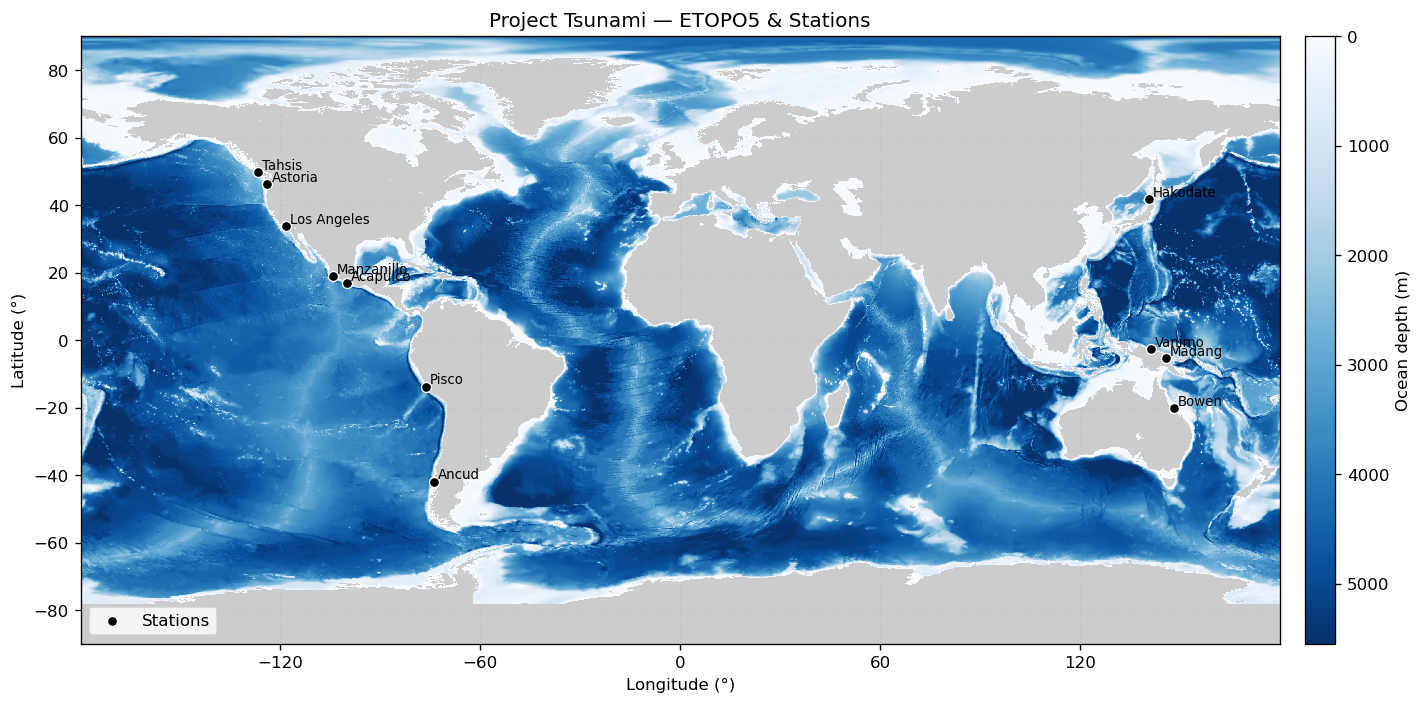
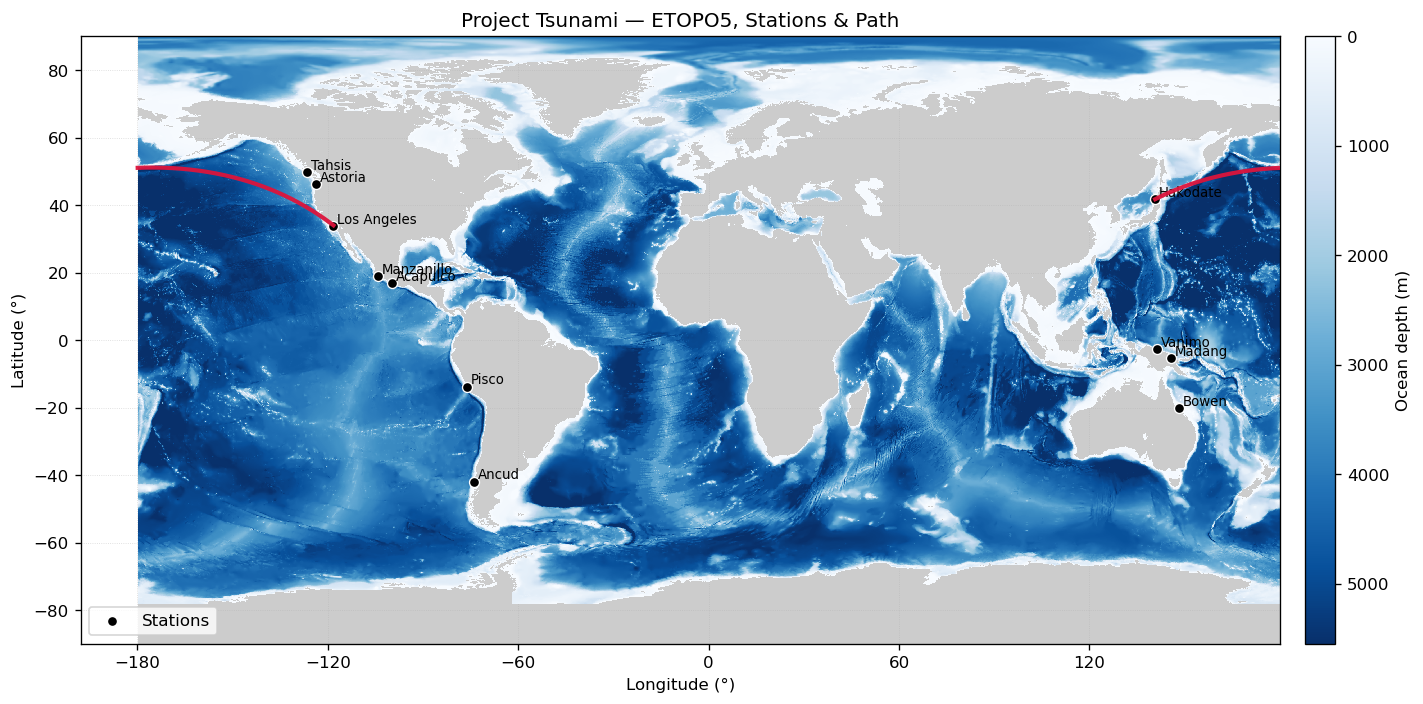
feat(plotting): add great-circle path plotting with multi-route support
- Added new module plotting/paths.py:
  * Implements plot_great_circle() with proper longitude wrapping (-180° to 180°)
  * Handles dateline crossing safely by splitting segments
  * Provides reusable helper for great-circle visualization on (lon, lat) maps

- Extended plotting/world_map.py:
  * New arguments `paths` and `path_style` to overlay one or more trajectories
  * Integrated with ETOPO5 map rendering (handles layering, color, legend)
  * Enables easy visualization of tsunami source→station or inter-station paths

- Example included: Hakodate → Los Angeles great-circle trajectory,
  demonstrating curvature and dateline handling.

This update enables plotting multiple propagation paths directly
on the global bathymetry map for visual analysis.

diff --git a/plotting/world_map.py b/plotting/world_map.py
@@ -4,6 +4,7 @@ from matplotlib.colors import ListedColormap, Normalize
 from matplotlib.ticker import FuncFormatter
 
 from tsunami.io_etopo import load_etopo5
+from plotting.paths import plot_great_circle
 
 def _wrap_to_180(lons):
     """Convertit une grille de longitudes [0, 360) en [-180, 180) et renvoie l'ordre de réindexation."""
@@ -41,10 +42,11 @@ def plot_world_etopo_with_stations(etopo_path="data/etopo5.grd",
                                    stations_csv="data/data_villes.csv",
                                    figsize=(12, 6),
                                    savepath="outputs/world_map.png",
-                                   title="Global bathymetry (oceans) with stations"):
+                                   title="Global bathymetry (oceans) with stations",
+                                   paths=None,
+                                   path_style=None):
     """
     Carte ETOPO5 recadrée en [-180,180), continents grisés, océan coloré.
-    - Colorbar en profondeur positive (m).
     """
     # 1) Charger la grille
     lats, lons, H, _ = load_etopo5(etopo_path)  # H: [nlat, nlon], lats/lons croissants (selon ton loader)
@@ -132,7 +134,17 @@ def plot_world_etopo_with_stations(etopo_path="data/etopo5.grd",
     except FileNotFoundError:
         pass
 
-    # 11) Sauvegarde + affichage
+    # 12) Trajets
+    if paths:
+        default_style = {"color": "red", "lw": 2, "alpha": 0.9}
+        if path_style:
+            default_style |= path_style
+        for p in paths:
+            s = default_style | p.get("style", {})
+            npts = p.get("npts", 1001)
+            plot_great_circle(ax, p["lat1"], p["lon1"], p["lat2"], p["lon2"], npts=npts, **s)
+
+    # 13) Sauvegarde + affichage
     import os
     os.makedirs(os.path.dirname(savepath), exist_ok=True)
     fig.tight_layout()
@@ -142,11 +154,17 @@ def plot_world_etopo_with_stations(etopo_path="data/etopo5.grd",
     return fig, ax
 
 
-if __name__ == "__main__":
-    plot_world_etopo_with_stations(
-        etopo_path="data/etopo5.grd",
-        stations_csv="data/data_villes.csv",
-        figsize=(12, 6),
-        savepath="outputs/world_map.png",
-        title="Project Tsunami — ETOPO5 & Stations"
-    )
+paths = [
+    {"lat1": 41.7878, "lon1": 140.7090,  # Hakodate
+     "lat2": 34.05, "lon2": -118.25, # Los Angeles
+     "npts": 1201, "style": {"color": "crimson", "lw": 2.5}}
+]
+
+plot_world_etopo_with_stations(
+    etopo_path="data/etopo5.grd",
+    stations_csv="data/data_villes.csv",
+    savepath="outputs/world_map.png",
+    title="Project Tsunami — ETOPO5, Stations & Path",
+    paths=paths,
+    path_style={"zorder": 6, "alpha": 0.95}
+)

diff --git a/plotting/paths.py b/plotting/paths.py
@@ -1,0 +1,40 @@
+import numpy as np
+import matplotlib.pyplot as plt
+from tsunami.geo import great_circle_points
+
+def _wrap180(lon):
+    out = (lon + 180.0) % 360.0 - 180.0
+    # 180 → -180 pour rester en [-180,180)
+    if np.isscalar(out):
+        return -180.0 if out == 180.0 else out
+    out[out == 180.0] = -180.0
+    return out
+
+def _split_on_dateline(lons, lats):
+    """
+    Coupe la polyline quand le saut de longitude dépasse 180°, pour éviter
+    une ligne qui traverse toute la carte.
+    Retourne une liste de segments (lons_i, lats_i).
+    """
+    lons = np.asarray(lons, float)
+    lats = np.asarray(lats, float)
+    segs = []
+    start = 0
+    for k in range(1, len(lons)):
+        if abs(lons[k] - lons[k-1]) > 180.0:
+            segs.append((lons[start:k], lats[start:k]))
+            start = k
+    segs.append((lons[start:], lats[start:]))
+    return segs
+
+def plot_great_circle(ax, lat1, lon1, lat2, lon2, npts=1001, **line_kwargs):
+    """
+    Trace le grand cercle entre (lat1,lon1) et (lat2,lon2) sur l'axe `ax`.
+    Gère le wrap longitudes et la coupure ±180°.
+    """
+    pts = great_circle_points(lat1, lon1, lat2, lon2, npts=npts)
+    lats = pts[:, 0]
+    lons = _wrap180(pts[:, 1])
+
+    for (lx, ly) in _split_on_dateline(lons, lats):
+        ax.plot(lx, ly, **({"lw": 2, "color": "k"} | line_kwargs))
